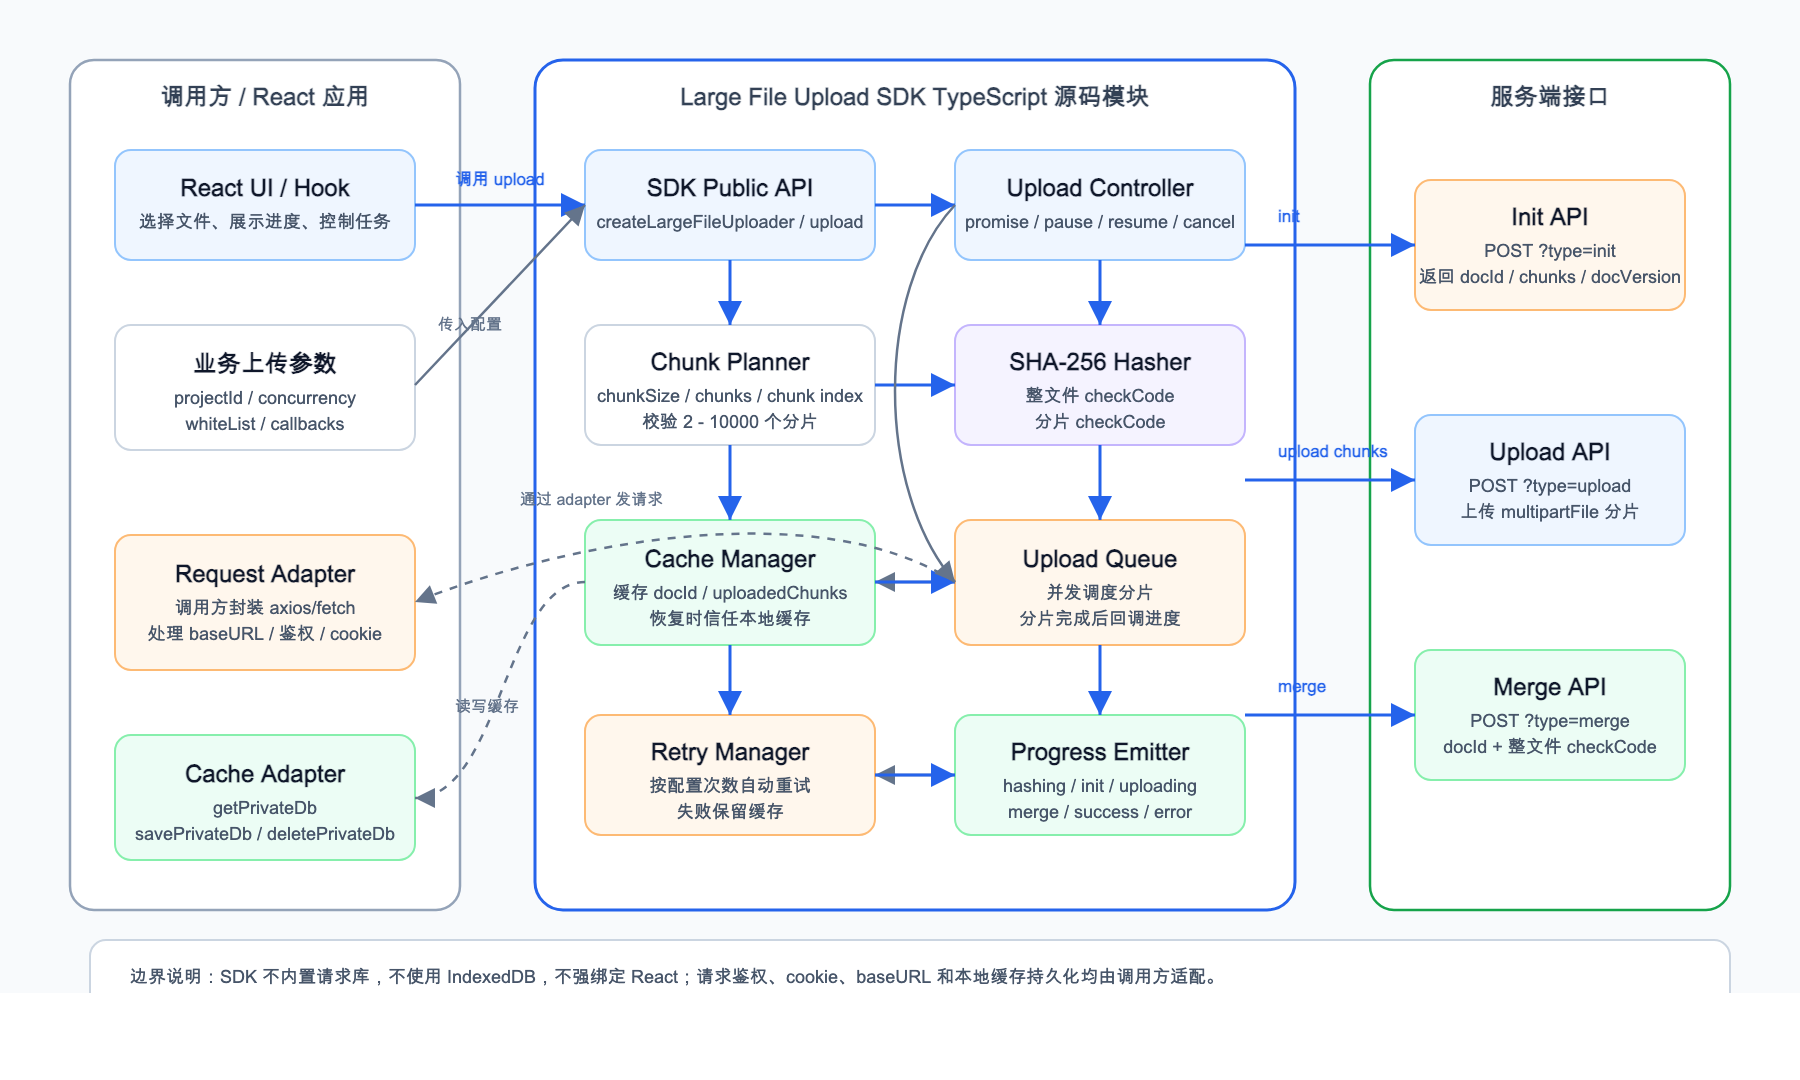
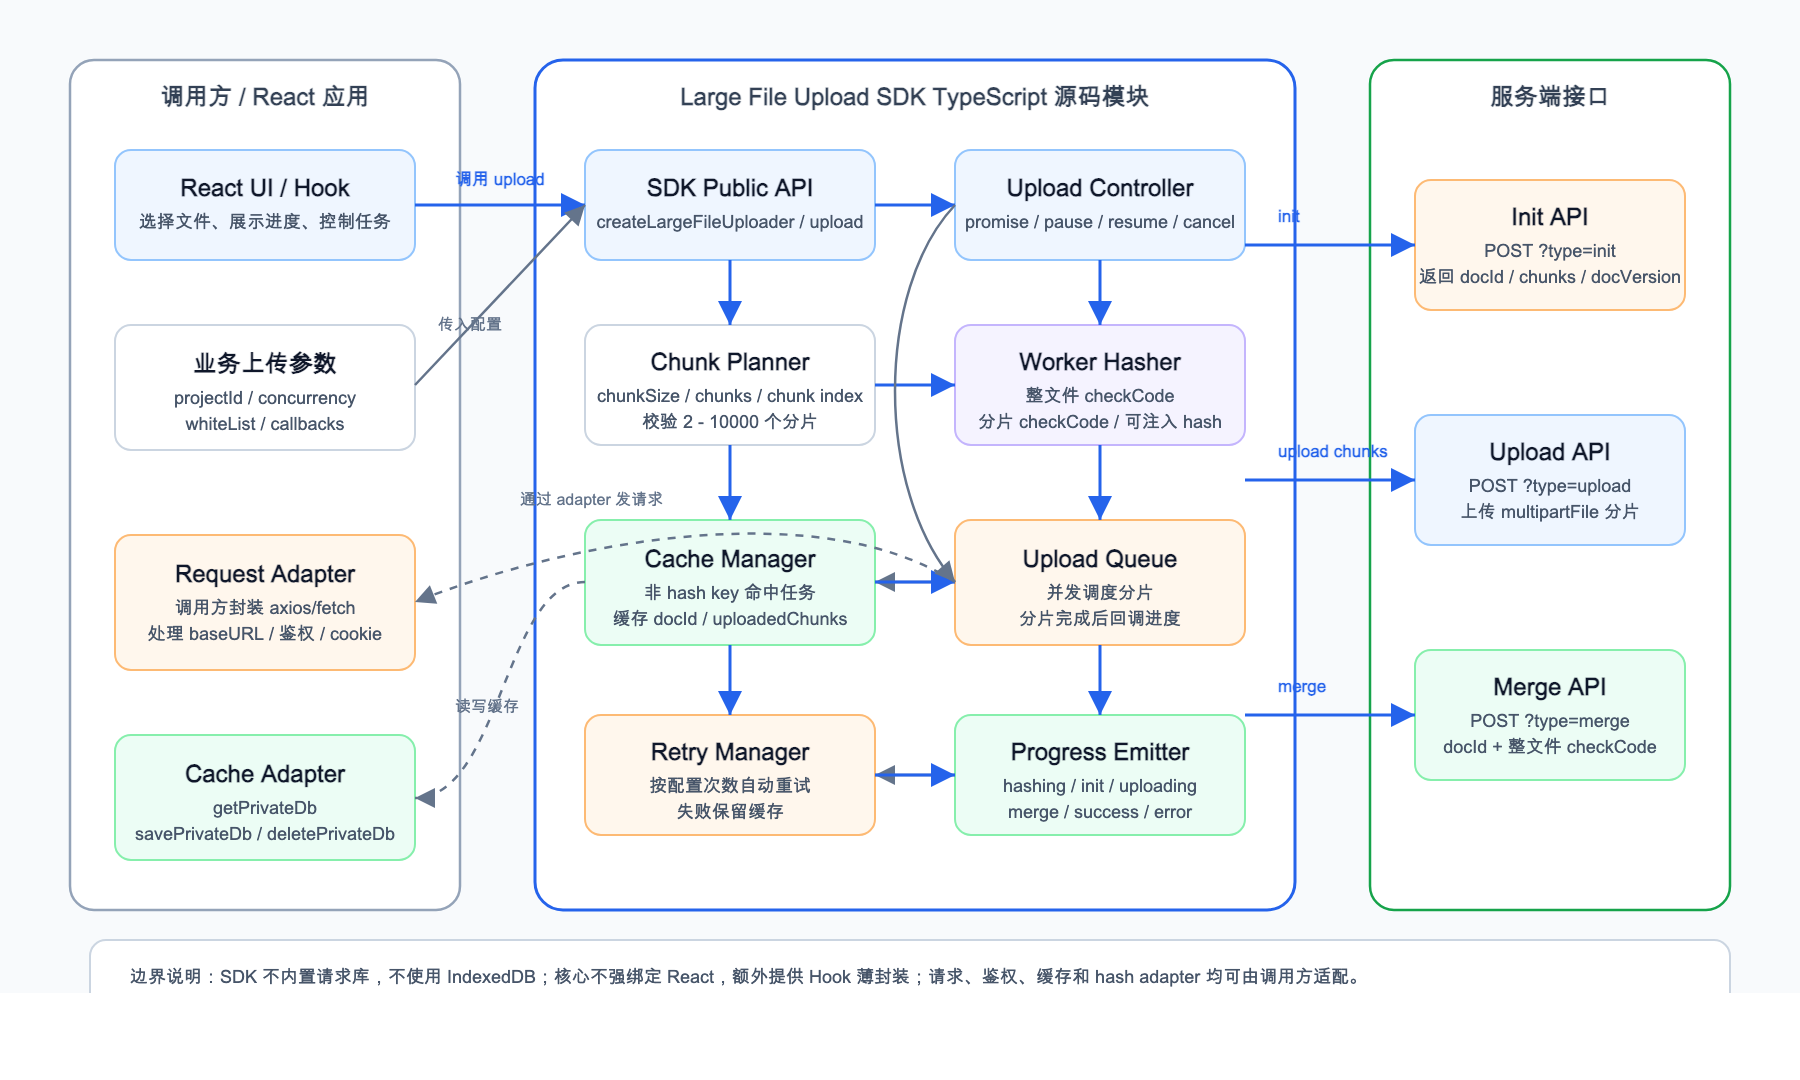
Refine upload SDK design for production concerns

Changed region(s): [[0.3111, 0.8861, 0.7467, 0.9167], [0.5289, 0.3056, 0.6844, 0.3972], [0.3422, 0.5194, 0.4667, 0.5806]]

diff --git a/docs/large-file-upload-sdk-design.md b/docs/large-file-upload-sdk-design.md
@@ -10,7 +10,7 @@
 - 分片上传接口：`POST /projects/{project_id}/chunk/documents?type=upload`
 - 分片合并接口：`POST /projects/{project_id}/chunk/documents?type=merge`
 
-SDK 不内置请求库，不使用 IndexedDB。请求能力和缓存能力均由调用方注入。
+SDK 不内置请求库，不使用 IndexedDB。请求能力和缓存能力均由调用方注入。核心能力保持纯 TypeScript 实现，同时额外提供一个可选的 React Hook 薄封装，便于 React 项目管理上传状态和生命周期。
 
 ## 2. SDK 能力范围
 
@@ -20,25 +20,30 @@ SDK 不内置请求库，不使用 IndexedDB。请求能力和缓存能力均由
 - 支持分片级上传进度回调。
 - 支持上传前计算整文件 SHA-256。
 - 支持每个分片单独计算 SHA-256。
+- 支持 Web Worker 或调用方注入的异步 hash 方法，避免大文件 hash 阻塞主线程。
 - 支持分片失败自动重试。
 - 支持暂停、恢复、取消上传任务。
 - 支持使用调用方注入的私有缓存方法保存上传状态。
+- 支持可选的 `useLargeFileUpload` React Hook。
 
 ## 3. 接口约定
 
 ### 3.1 调用方注入能力
 
 ```ts
-type CacheGetter = (key: string) => Promise<unknown>;
-type CacheSetter = (key: string, value: string) => Promise<void>;
+type CacheGetter<T = unknown> = (key: string) => Promise<T | null>;
+type CacheSetter<T = unknown> = (key: string, value: T) => Promise<void>;
 type CacheDeleter = (key: string) => Promise<void>;
+
+type RequestBody = URLSearchParams | FormData | Record<string, unknown> | Blob | File | ArrayBuffer;
 
 type RequestConfig = {
   url: string;
   method: 'POST';
   headers?: Record<string, string>;
-  body: URLSearchParams | FormData | Record<string, unknown>;
+  body: RequestBody;
   signal?: AbortSignal;
+  timeout?: number;
 };
 
 type RequestAdapter = <T>(config: RequestConfig) => Promise<{
@@ -47,6 +52,24 @@ type RequestAdapter = <T>(config: RequestConfig) => Promise<{
   traceId?: string;
   result: T;
 }>;
+
+type HashAdapter = (input: Blob, options?: {
+  signal?: AbortSignal;
+  onProgress?: (progress: number) => void;
+}) => Promise<string>;
+
+type ProgressInfo = {
+  phase: 'hashing' | 'init' | 'uploading' | 'merging' | 'success' | 'error' | 'paused' | 'canceled';
+  progress: number;
+  uploadedSize: number;
+  totalSize: number;
+  speed: number;
+  estimatedTime: number;
+  chunks: number;
+  uploadedChunks: number;
+  currentChunk?: number;
+  docId?: string;
+};
 ```
 
 ### 3.2 SDK 主要入口
@@ -58,7 +81,10 @@ const uploader = createLargeFileUploader({
   getPrivateDb,
   savePrivateDb,
   deletePrivateDb,
+  hash,
   concurrency,
+  initTimeout,
+  mergeTimeout,
 });
 
 const task = uploader.upload(file, {
@@ -66,6 +92,7 @@ const task = uploader.upload(file, {
   whiteList,
   chunkSize,
   maxRetries,
+  mergeMaxRetries,
   onProgress,
 });
 
@@ -73,6 +100,29 @@ task.pause();
 task.resume();
 task.cancel();
 await task.promise;
+```
+
+### 3.3 React Hook 封装
+
+SDK 核心不依赖 React，React 场景额外提供 `useLargeFileUpload`。Hook 只负责状态管理和组件生命周期绑定，不改变核心上传行为。
+
+```ts
+const {
+  upload,
+  pause,
+  resume,
+  cancel,
+  state,
+  progress,
+  error,
+} = useLargeFileUpload({
+  projectId,
+  request,
+  getPrivateDb,
+  savePrivateDb,
+  deletePrivateDb,
+  concurrency,
+});
 ```
 
 ## 4. 实现过程流程图
@@ -107,6 +157,9 @@ await task.promise;
 - 初始化和合并接口使用整文件 SHA-256。
 - 分片上传接口使用当前分片 SHA-256。
 - Hash 阶段纳入进度回调，便于 UI 展示完整上传生命周期。
+- GB 级文件禁止在主线程同步计算 hash。SDK 默认使用 Web Worker 执行 SHA-256 计算，避免阻塞 React UI。
+- SDK 支持调用方注入 `hash` 方法，用于接入业务侧已有的 Worker、WASM 或后端预计算能力。
+- 恢复上传时允许先用非 hash 缓存 key 找到任务，再异步校验整文件 hash，避免每次刷新都必须先完整 hash 才能恢复。
 
 ### 7.3 请求适配
 
@@ -117,6 +170,17 @@ SDK 不直接依赖 `fetch`、`axios` 或其他请求库。调用方通过 `requ
 - headers
 - 网关错误处理
 - `AbortSignal`
+- 超时控制
+
+### 7.4 超时与重试分层
+
+不同接口的耗时特征不同，不能使用同一套重试策略：
+
+- `init`：请求体较小，建议提供独立的 `initTimeout` 和 `initMaxRetries`。
+- `upload`：以分片为单位重试，失败后只重传当前分片。
+- `merge`：服务端可能需要合并大量分片，建议提供独立的 `mergeTimeout` 和 `mergeMaxRetries`。
+
+如果服务端合并耗时较长，推荐将 `merge` 改造成异步任务接口：前端提交合并任务后轮询合并状态，避免网关超时导致前端无法判断最终结果。
 
 ## 8. 缓存与断点续传策略
 
@@ -126,10 +190,12 @@ SDK 使用调用方传入的三个异步缓存方法：
 - `savePrivateDb(key, value)`
 - `deletePrivateDb(key)`
 
+缓存 key 不包含 `fileHash`。否则恢复上传前必须先完整计算文件 hash，导致刷新后无法快速恢复。
+
 缓存 key 建议包含：
 
 ```text
-large-upload:{projectId}:{fileName}:{fileSize}:{lastModified}:{fileHash}
+large-upload:{projectId}:{userId}:{fileName}:{fileSize}:{lastModified}
 ```
 
 缓存内容建议包含：
@@ -149,16 +215,19 @@ type UploadCache = {
 };
 ```
 
-恢复上传时，SDK 信任本地缓存中的 `uploadedChunks`，跳过已成功分片，只上传未完成分片。合并成功后删除缓存。
+恢复上传时，SDK 先通过非 hash 缓存 key 查询任务，信任本地缓存中的 `uploadedChunks`，跳过已成功分片，只上传未完成分片。整文件 hash 仍会在恢复流程中计算，用于后续 `merge` 校验和缓存内容一致性确认。合并成功后删除缓存。
+
+缓存 adapter 使用对象类型交互，序列化和存储细节由调用方负责。这样 SDK 不强制调用方必须使用字符串存储，也避免 getter/setter 类型不一致。
 
 ## 9. 异常与重试策略
 
 - 分片上传失败后自动重试。
 - 默认最大重试次数建议为 `3`。
 - 超过重试次数后任务失败，并保留缓存。
-- `pause()` 停止调度新的分片，已在上传中的分片可自然完成。
+- `pause()` 停止调度新的分片，并通过 `AbortController.abort()` 取消正在上传的分片请求。被取消的分片标记为未完成，恢复时重新上传。
 - `resume()` 继续调度剩余分片。
 - `cancel()` 中止请求并停止任务，同时保留缓存，便于后续恢复。
+- `merge` 失败时不删除缓存，按照独立的 merge 重试策略处理。超过重试次数后任务进入失败态，由业务 UI 提示用户重试或稍后恢复。
 
 ## 10. 测试建议
 
@@ -166,7 +235,10 @@ type UploadCache = {
 - 上传一部分后刷新页面，恢复时跳过已上传分片。
 - 分片失败后自动重试并最终成功。
 - 分片超过最大重试次数后任务失败且缓存保留。
-- `pause()` 后不再调度新分片。
+- `pause()` 后不再调度新分片，并取消正在上传的分片请求。
 - `resume()` 后继续上传剩余分片。
 - `cancel()` 后请求被中止且缓存保留。
 - `merge` 成功后缓存被删除。
+- `merge` 超时后按独立策略重试，最终失败时缓存保留。
+- GB 级文件 hash 计算期间 React UI 不阻塞。
+- 刷新恢复时无需先完成整文件 hash 才能命中缓存。
